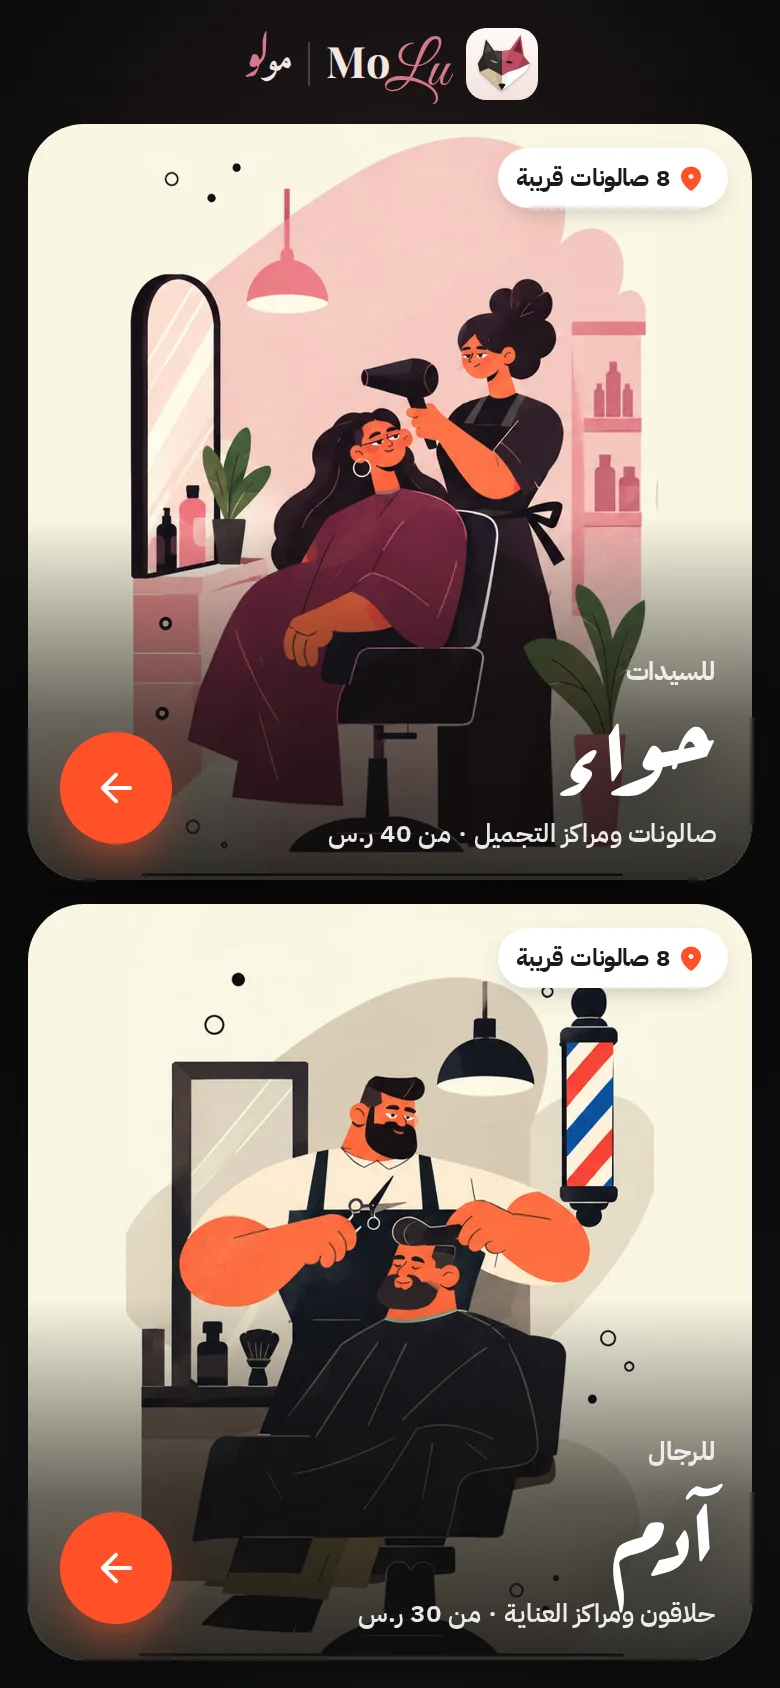
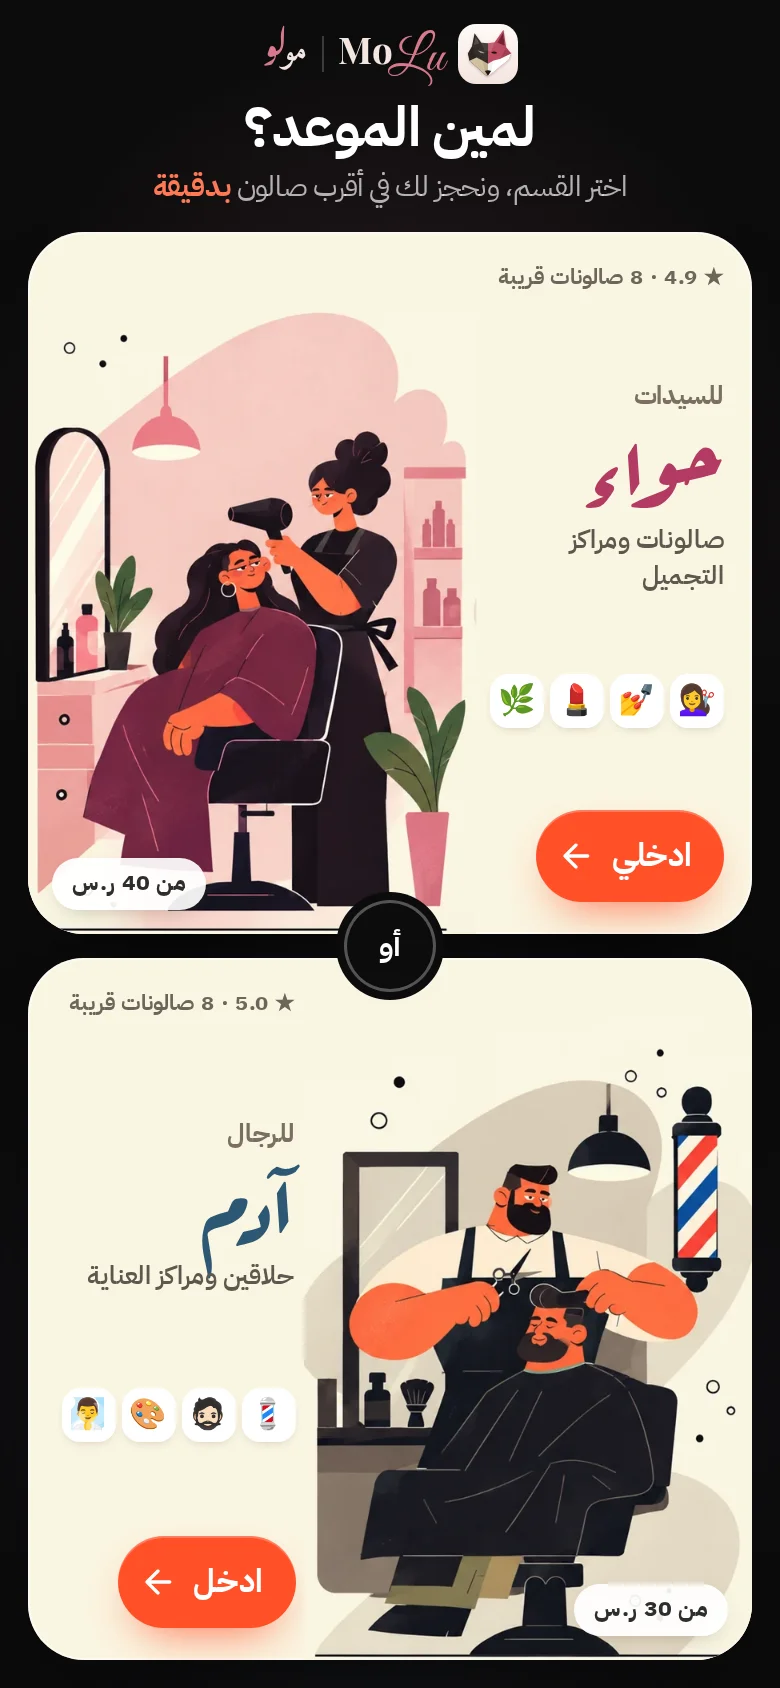
MoLu gate: «لمين الموعد؟» start screen
Back to the cream full-scene cards, made clearer: the question as the
headline, an «أو» between the two cards, a row of service icons, rating
and nearby count, a real «ادخلي / ادخل» button and the starting price on
the scene. Still static HTML + one quick CSS fade-up.

Claude-Session: https://claude.ai/code/session_01YDDWUymGc1xUJNLzFw3adr

diff --git a/molu/css/gate.css b/molu/css/gate.css
@@ -1,47 +1,67 @@
-/* Gate — dark, MoLu logo, حواء and آدم as two big cards showing each scene in full.
-   Self-contained (no m3.css/app JS) so the first screen paints fast. One quick, simple entrance. */
+/* Gate — "لمين الموعد؟": dark stage, MoLu logo, two cream cards that show each scene of the artwork in full,
+   with an «أو» between them. Self-contained (no app CSS/JS) so it paints instantly. Motion: one quick CSS fade-up. */
 @view-transition { navigation: auto; }
 ::view-transition-old(root), ::view-transition-new(root) { animation-duration: .16s; }
+:root { --cream: #FAF6E2; --ink: #2D2D2D; --orange: #FF5028; --eve: #B23A63; --adam: #2D5875; --ease: cubic-bezier(.22, 1, .36, 1); }
 * { box-sizing: border-box; }
 html, body { margin: 0; background: #0B0B0C; }
 body { color: #fff; font-family: 'IBM Plex Sans Arabic', system-ui, sans-serif; -webkit-font-smoothing: antialiased; overscroll-behavior: none; }
 a { color: inherit; text-decoration: none; }
-.gx { height: 100dvh; min-height: 560px; display: flex; flex-direction: column; gap: 12px; padding: max(12px, env(safe-area-inset-top)) 14px max(14px, env(safe-area-inset-bottom));
-  background: radial-gradient(90% 45% at 50% 22%, rgba(229, 138, 160, .16), transparent 70%), radial-gradient(90% 45% at 50% 82%, rgba(138, 167, 189, .14), transparent 70%), #0B0B0C; }
+.gx { position: relative; height: 100dvh; min-height: 600px; display: flex; flex-direction: column; gap: 12px; padding: max(12px, env(safe-area-inset-top)) 14px max(14px, env(safe-area-inset-bottom));
+  background: radial-gradient(80% 40% at 50% 30%, rgba(229, 138, 160, .17), transparent 70%), radial-gradient(80% 40% at 50% 80%, rgba(138, 167, 189, .15), transparent 70%), #0B0B0C; }
 
-/* MoLu logo */
-.gx-head { display: flex; justify-content: center; padding-top: 2px; }
-.molu-logo { display: inline-flex; align-items: center; gap: 8px; }
-.logo-mark { width: 36px; height: 36px; border-radius: 10px; flex: none; }
+/* header: logo, the question, one line of help */
+.gx-head { display: grid; justify-items: center; text-align: center; gap: 2px; animation: up .35s var(--ease) both; }
+.molu-logo { display: inline-flex; align-items: center; gap: 7px; margin-bottom: 4px; }
+.logo-mark { width: 30px; height: 30px; border-radius: 9px; flex: none; }
 .logo-latin { display: inline-flex; align-items: baseline; line-height: 1; }
-.logo-latin .mo { font: 700 1.35rem/1 'MoLu Mo', 'Playfair Display', Georgia, serif; color: #F4E6E0; }
-.logo-latin .lu { display: inline-block; font: 400 1.9rem/1 'MoLu Lu', 'Great Vibes', cursive; color: #D7798A; margin-left: -.08em; transform: translateY(.12em); }
-.logo-sep { width: 1px; height: 22px; background: rgba(255, 255, 255, .2); }
-.logo-ar { display: inline-flex; align-items: baseline; font-size: 1.2rem; line-height: 1; }
+.logo-latin .mo { font: 700 1.15rem/1 'MoLu Mo', 'Playfair Display', Georgia, serif; color: #F4E6E0; }
+.logo-latin .lu { display: inline-block; font: 400 1.6rem/1 'MoLu Lu', 'Great Vibes', cursive; color: #D7798A; margin-left: -.08em; transform: translateY(.12em); }
+.logo-sep { width: 1px; height: 18px; background: rgba(255, 255, 255, .2); }
+.logo-ar { display: inline-flex; align-items: baseline; font-size: 1.05rem; line-height: 1; }
 .logo-ar .mo { font-family: 'MoLu Naskh', 'Amiri', serif; font-weight: 700; color: #F4E6E0; }
 .logo-ar .lu { display: inline-block; font-family: 'MoLu Nastaliq', 'Gulzar', serif; font-size: 1.35em; color: #D7798A; margin-inline-start: -.12em; transform: translateY(.12em); }
+.gx-head h1 { margin: 0; font: 800 clamp(1.6rem, 7vw, 2.3rem)/1.2 'IBM Plex Sans Arabic', sans-serif; letter-spacing: -.01em; }
+.gx-head p { margin: 0; font: 500 .9rem/1.5 'IBM Plex Sans Arabic', sans-serif; color: rgba(255, 255, 255, .68); }
+.gx-head em { font-style: normal; color: #FF7A55; font-weight: 700; }
 
-.gx-doors { flex: 1; min-height: 0; display: grid; grid-template-rows: 1fr 1fr; gap: 12px; }
-@media (min-width: 820px) { .gx-doors { grid-template-rows: none; grid-template-columns: 1fr 1fr; gap: 18px; } .gx { padding-inline: 28px; } }
+/* the two cards + «أو» */
+.gx-doors { position: relative; flex: 1; min-height: 0; display: grid; grid-template-rows: 1fr 1fr; gap: 12px; }
+@media (min-width: 820px) { .gx-doors { grid-template-rows: none; grid-template-columns: 1fr 1fr; gap: 22px; } .gx { padding-inline: 28px; } }
+.gx-or { position: absolute; z-index: 5; left: 50%; top: 50%; translate: -50% -50%; display: grid; place-items: center; width: 46px; height: 46px; border-radius: 50%;
+  background: #0B0B0C; color: #fff; font: 800 .95rem 'IBM Plex Sans Arabic', sans-serif; box-shadow: 0 0 0 4px #0B0B0C, inset 0 0 0 1.5px rgba(255, 255, 255, .3);
+  animation: pop .4s .22s cubic-bezier(.3, 1.4, .5, 1) both; }
+@keyframes pop { from { opacity: 0; scale: .4; } }
 
-/* card: cream like the artwork, the whole scene visible (contain), words over a soft shade at the bottom */
-.gd { position: relative; isolation: isolate; display: block; min-height: 0; overflow: hidden; border-radius: 28px; background: #FAF6E2;
-  box-shadow: 0 24px 50px -28px rgba(0, 0, 0, .9); -webkit-tap-highlight-color: transparent;
-  animation: in .38s cubic-bezier(.22, 1, .36, 1) both; transition: transform .18s cubic-bezier(.3, 0, .2, 1); }
-.gd.adam { animation-delay: .06s; }
-@keyframes in { from { opacity: 0; transform: translateY(14px); } }
+.gd { --c: var(--eve); position: relative; isolation: isolate; display: flex; align-items: stretch; min-height: 0; overflow: hidden; border-radius: 28px; background: var(--cream); color: var(--ink);
+  box-shadow: 0 24px 50px -28px rgba(0, 0, 0, .9), inset 0 0 0 1px rgba(255, 255, 255, .6); -webkit-tap-highlight-color: transparent;
+  animation: up .38s .06s var(--ease) both; transition: transform .18s cubic-bezier(.3, 0, .2, 1), box-shadow .2s; }
+.gd.adam { --c: var(--adam); flex-direction: row-reverse; animation-delay: .12s; }   /* آدم's scene on the right, as in the picture */
+@keyframes up { from { opacity: 0; transform: translateY(14px); } }
 .gd:active { transform: scale(.975); }
-@media (hover: hover) { .gd:hover { transform: translateY(-3px); } }
-.gd img { position: absolute; inset: 0; z-index: -2; width: 100%; height: 100%; object-fit: contain; object-position: 50% 30%; }
-.gd::after { content: ''; position: absolute; inset: 52% 0 0; z-index: -1; background: linear-gradient(180deg, rgba(14, 12, 10, 0), rgba(14, 12, 10, .62) 55%, rgba(14, 12, 10, .86)); }
-.gd-chip { position: absolute; top: 12px; inset-inline-start: 12px; display: inline-flex; align-items: center; gap: 3px; height: 30px; padding: 0 11px 0 9px; border-radius: 15px; background: #fff; color: #1A1A1A; font: 700 .76rem var(--f, 'IBM Plex Sans Arabic', sans-serif); box-shadow: 0 4px 14px -6px rgba(0, 0, 0, .35); }
-.gd-chip svg { color: #FF5028; }
-.gd-txt { position: absolute; inset-inline: 18px 90px; bottom: 14px; display: grid; }
-.gd-txt small { font: 700 .8rem 'IBM Plex Sans Arabic', sans-serif; color: rgba(255, 255, 255, .85); }
-.gd-txt b { font: 700 clamp(2.8rem, 13.5vw, 4.8rem)/1.05 'Aref Ruqaa', serif; padding-bottom: .24em; margin-bottom: -.12em; text-shadow: 0 6px 24px rgba(0, 0, 0, .45); }
-.gd-txt span { font: 600 .8rem 'IBM Plex Sans Arabic', sans-serif; color: rgba(255, 255, 255, .9); }
-.gd-go { position: absolute; inset-inline-end: 16px; bottom: 18px; display: grid; place-items: center; width: 56px; height: 56px; border-radius: 50%; background: #FF5028; color: #fff; box-shadow: 0 12px 26px -10px rgba(255, 80, 40, .9); }
-.gd.last .gd-chip::after { content: '· آخر زيارة'; margin-inline-start: 4px; color: #848A98; font-weight: 600; }
+@media (hover: hover) { .gd:hover { transform: translateY(-3px); box-shadow: 0 30px 60px -28px rgba(0, 0, 0, .95), inset 0 0 0 1px rgba(255, 255, 255, .6); } }
 .gd:focus-visible { outline: 3px solid #fff; outline-offset: 3px; }
+
+.gd-scene { position: relative; flex: none; height: 100%; aspect-ratio: 560 / 788; max-width: 62%; }
+.gd-scene img { position: absolute; inset: 0; width: 100%; height: 100%; object-fit: contain; object-position: 50% 100%; }
+.gd-txt { flex: 1; min-width: 0; display: flex; flex-direction: column; justify-content: space-between; gap: 8px; padding: 16px 14px 16px 4px; }
+.gd.adam .gd-txt { padding: 16px 4px 16px 14px; }
+.gd-proof { align-self: flex-start; font: 700 .7rem/1.3 'IBM Plex Sans Arabic', sans-serif; color: #6D655B; }
+.gd-name { display: grid; }
+.gd-name small { font: 700 .8rem 'IBM Plex Sans Arabic', sans-serif; color: #7A6F63; }
+.gd-name b { font: 700 clamp(2.5rem, 12vw, 4.4rem)/1.05 'Aref Ruqaa', serif; color: var(--c); padding-bottom: .24em; margin-bottom: -.14em; }
+.gd-name span { font: 600 .8rem/1.4 'IBM Plex Sans Arabic', sans-serif; color: #5E574E; }
+.gd-svc { display: flex; flex-wrap: wrap; gap: 3px; }
+.gd-svc span { display: grid; place-items: center; width: 27px; height: 27px; border-radius: 9px; background: #fff; font-size: 15px; line-height: 1; box-shadow: 0 2px 6px -3px rgba(60, 40, 20, .3);
+  font-family: 'Noto Color Emoji', 'Apple Color Emoji', 'Segoe UI Emoji', sans-serif; }
+.gd-cta { align-self: flex-start; display: inline-flex; align-items: center; gap: 8px; height: 46px; padding: 0 16px 0 10px; border-radius: 23px; background: var(--orange); color: #fff;
+  font: 800 1rem 'IBM Plex Sans Arabic', sans-serif; box-shadow: 0 10px 24px -10px rgba(255, 80, 40, .9), inset 0 1px 0 rgba(255, 255, 255, .25); }
+.gd-cta svg { transition: transform .2s var(--ease); }
+.gd:hover .gd-cta svg, .gd:active .gd-cta svg { transform: translateX(-4px); }
+.gd-from { position: absolute; bottom: 12px; inset-inline-end: 12px; height: 26px; padding: 0 10px; border-radius: 13px; background: rgba(255, 255, 255, .92); color: var(--ink);
+  font: 700 .72rem/26px 'IBM Plex Sans Arabic', sans-serif; box-shadow: 0 4px 12px -6px rgba(60, 40, 20, .4); }
+.gd.adam .gd-from { inset-inline-end: auto; inset-inline-start: 12px; }
+.gd.last .gd-proof::after { content: ' · آخر زيارة'; color: var(--orange); }
 .ms { display: block; flex: none; }
-@media (prefers-reduced-motion: reduce) { .gd { animation: none; } }
+@media (max-height: 700px) { .gd-svc { display: none; } .gx-head p { display: none; } }
+@media (prefers-reduced-motion: reduce) { .gd, .gx-head, .gx-or { animation: none; } }

diff --git a/molu/index.html b/molu/index.html
@@ -17,19 +17,30 @@
 <div class="gx" id="gate">
   <header class="gx-head">
     <a class="molu-logo" href="index.html" aria-label="MoLu مولو"><svg class="logo-mark" aria-hidden="true" xmlns="http://www.w3.org/2000/svg" viewBox="0 0 100 100"><defs><linearGradient id="b" x1="0" y1="0" x2="0" y2="1"><stop offset="0" stop-color="#fffaf7"/><stop offset="1" stop-color="#f3e4de"/></linearGradient><filter id="sh" x="-20%" y="-20%" width="140%" height="150%"><feDropShadow dx="0" dy="1.8" stdDeviation="1.8" flood-color="#5a2a33" flood-opacity=".28"/></filter></defs><rect width="100" height="100" rx="22" fill="url(#b)"/><g transform="translate(7 6.14) scale(0.86)" filter="url(#sh)"><path d="M50 30 L37 29 L24 11 L19 36 L11 50 L14 64 L30 78 L44 91 L50 94 Z" fill="#352f2c"/><path d="M26 17 L22 34 L33 30 Z" fill="#5e534c"/><path d="M50 30 L63 28 L80 4 L85 38 L95 50 L90 62 L72 76 L56 90 L50 94 Z" fill="#bd4b61"/><path d="M79 11 L82 34 L68 29 Z" fill="#7d2537"/><path d="M50 30 L37 29 L44 46 L50 44 Z" fill="#fff" opacity=".09"/><path d="M50 30 L63 28 L56 46 L50 44 Z" fill="#fff" opacity=".13"/><path d="M19 36 L11 50 L14 64 L28 58 Z" fill="#000" opacity=".16"/><path d="M85 38 L95 50 L90 62 L74 60 Z" fill="#000" opacity=".14"/><path d="M24 11 L19 36 L30 30 Z" fill="#000" opacity=".12"/><path d="M80 4 L85 38 L72 30 Z" fill="#000" opacity=".1"/><path d="M14 64 L30 78 L44 91 L50 94 L50 70 L40 64 L28 58 Z" fill="#d2bf9f"/><path d="M95 50 L90 62 L72 76 L56 90 L50 94 L50 70 L60 64 L74 60 Z" fill="#fff"/><path d="M50 70 L40 64 L44 91 L50 94 Z" fill="#000" opacity=".07"/><path d="M50 70 L60 64 L56 90 L50 94 Z" fill="#000" opacity=".05"/><path d="M30 44 Q37 44.5 44 49 Q36.5 51.5 30 44 Z" fill="#a8957f"/><path d="M68 49 Q62 44 56 48 Q62 52 68 49 Z" fill="#171412"/><path d="M44 84 Q50 81 56 84 L50 93 Z" fill="#171412"/></g></svg><span class="logo-latin" dir="ltr"><span class="mo">Mo</span><span class="lu">Lu</span></span><span class="logo-sep"></span><span class="logo-ar"><span class="mo">مو</span><span class="lu">لو</span></span></a>
+    <h1>لمين الموعد؟</h1>
+    <p>اختر القسم، ونحجز لك في أقرب صالون <em>بدقيقة</em></p>
   </header>
   <main class="gx-doors">
-    <a class="gd eve" href="explore.html?s=eve" data-k="eve" aria-label="ادخلي قسم حواء — صالونات ومراكز التجميل">
-      <img src="img/eve-560.webp" srcset="img/eve-560.webp 560w, img/eve-960.webp 960w" sizes="(min-width: 820px) 40vw, 72vw" width="560" height="788" alt="" decoding="async" fetchpriority="high">
-      <span class="gd-chip"><svg class="ms " viewBox="0 -960 960 960" width="15" height="15" aria-hidden="true"><path fill="currentColor" d="M480-107q-14 0-28-5t-25-15q-65-60-115-117t-83.5-110.5q-33.5-53.5-51-103T160-552q0-150 96.5-239T480-880q127 0 223.5 89T800-552q0 45-17.5 94.5t-51 103Q698-301 648-244T533-127q-11 10-25 15t-28 5Zm0-373q33 0 56.5-23.5T560-560q0-33-23.5-56.5T480-640q-33 0-56.5 23.5T400-560q0 33 23.5 56.5T480-480Z"/></svg>8 صالونات قريبة</span>
-      <span class="gd-txt"><small>للسيدات</small><b>حواء</b><span>صالونات ومراكز التجميل · من 40 ر.س</span></span>
-      <span class="gd-go"><svg class="ms " viewBox="0 -960 960 960" width="24" height="24" aria-hidden="true"><path fill="currentColor" d="m313-440 196 196q12 12 11.5 28T508-188q-12 11-28 11.5T452-188L188-452q-6-6-8.5-13t-2.5-15q0-8 2.5-15t8.5-13l264-264q11-11 27.5-11t28.5 11q12 12 12 28.5T508-715L313-520h447q17 0 28.5 11.5T800-480q0 17-11.5 28.5T760-440H313Z"/></svg></span>
+    <a class="gd eve" href="explore.html?s=eve" data-k="eve" aria-label="ادخلي قسم حواء — صالونات ومراكز التجميل للسيدات">
+      <span class="gd-txt">
+        <span class="gd-proof">★ 4.9 · 8 صالونات قريبة</span>
+        <span class="gd-name"><small>للسيدات</small><b>حواء</b><span>صالونات ومراكز التجميل</span></span>
+        <span class="gd-svc" aria-hidden="true"><span title="الشعر">💇♀</span><span title="الأظافر">💅</span><span title="المكياج">💄</span><span title="الحناء">🌿</span></span>
+        <span class="gd-cta">ادخلي<svg class="ms " viewBox="0 -960 960 960" width="20" height="20" aria-hidden="true"><path fill="currentColor" d="m313-440 196 196q12 12 11.5 28T508-188q-12 11-28 11.5T452-188L188-452q-6-6-8.5-13t-2.5-15q0-8 2.5-15t8.5-13l264-264q11-11 27.5-11t28.5 11q12 12 12 28.5T508-715L313-520h447q17 0 28.5 11.5T800-480q0 17-11.5 28.5T760-440H313Z"/></svg></span>
+      </span>
+      <span class="gd-scene"><img src="img/eve-560.webp" srcset="img/eve-560.webp 560w, img/eve-960.webp 960w" sizes="(min-width: 820px) 28vw, 62vw" width="560" height="788" alt="" decoding="async" fetchpriority="high"></span>
+      <span class="gd-from">من 40 ر.س</span>
     </a>
-    <a class="gd adam" href="explore.html?s=adam" data-k="adam" aria-label="ادخل قسم آدم — حلاقون ومراكز العناية">
-      <img src="img/adam-560.webp" srcset="img/adam-560.webp 560w, img/adam-960.webp 960w" sizes="(min-width: 820px) 40vw, 72vw" width="560" height="800" alt="" decoding="async" fetchpriority="high">
-      <span class="gd-chip"><svg class="ms " viewBox="0 -960 960 960" width="15" height="15" aria-hidden="true"><path fill="currentColor" d="M480-107q-14 0-28-5t-25-15q-65-60-115-117t-83.5-110.5q-33.5-53.5-51-103T160-552q0-150 96.5-239T480-880q127 0 223.5 89T800-552q0 45-17.5 94.5t-51 103Q698-301 648-244T533-127q-11 10-25 15t-28 5Zm0-373q33 0 56.5-23.5T560-560q0-33-23.5-56.5T480-640q-33 0-56.5 23.5T400-560q0 33 23.5 56.5T480-480Z"/></svg>8 صالونات قريبة</span>
-      <span class="gd-txt"><small>للرجال</small><b>آدم</b><span>حلاقون ومراكز العناية · من 30 ر.س</span></span>
-      <span class="gd-go"><svg class="ms " viewBox="0 -960 960 960" width="24" height="24" aria-hidden="true"><path fill="currentColor" d="m313-440 196 196q12 12 11.5 28T508-188q-12 11-28 11.5T452-188L188-452q-6-6-8.5-13t-2.5-15q0-8 2.5-15t8.5-13l264-264q11-11 27.5-11t28.5 11q12 12 12 28.5T508-715L313-520h447q17 0 28.5 11.5T800-480q0 17-11.5 28.5T760-440H313Z"/></svg></span>
+    <span class="gx-or" aria-hidden="true">أو</span>
+    <a class="gd adam" href="explore.html?s=adam" data-k="adam" aria-label="ادخل قسم آدم — حلاقين ومراكز العناية للرجال">
+      <span class="gd-txt">
+        <span class="gd-proof">★ 5.0 · 8 صالونات قريبة</span>
+        <span class="gd-name"><small>للرجال</small><b>آدم</b><span>حلاقين ومراكز العناية</span></span>
+        <span class="gd-svc" aria-hidden="true"><span title="الحلاقة">💈</span><span title="اللحية">🧔🏻</span><span title="الصبغة">🎨</span><span title="العناية">🧖♂</span></span>
+        <span class="gd-cta">ادخل<svg class="ms " viewBox="0 -960 960 960" width="20" height="20" aria-hidden="true"><path fill="currentColor" d="m313-440 196 196q12 12 11.5 28T508-188q-12 11-28 11.5T452-188L188-452q-6-6-8.5-13t-2.5-15q0-8 2.5-15t8.5-13l264-264q11-11 27.5-11t28.5 11q12 12 12 28.5T508-715L313-520h447q17 0 28.5 11.5T800-480q0 17-11.5 28.5T760-440H313Z"/></svg></span>
+      </span>
+      <span class="gd-scene"><img src="img/adam-560.webp" srcset="img/adam-560.webp 560w, img/adam-960.webp 960w" sizes="(min-width: 820px) 28vw, 62vw" width="560" height="800" alt="" decoding="async" fetchpriority="high"></span>
+      <span class="gd-from">من 30 ر.س</span>
     </a>
   </main>
 </div>
